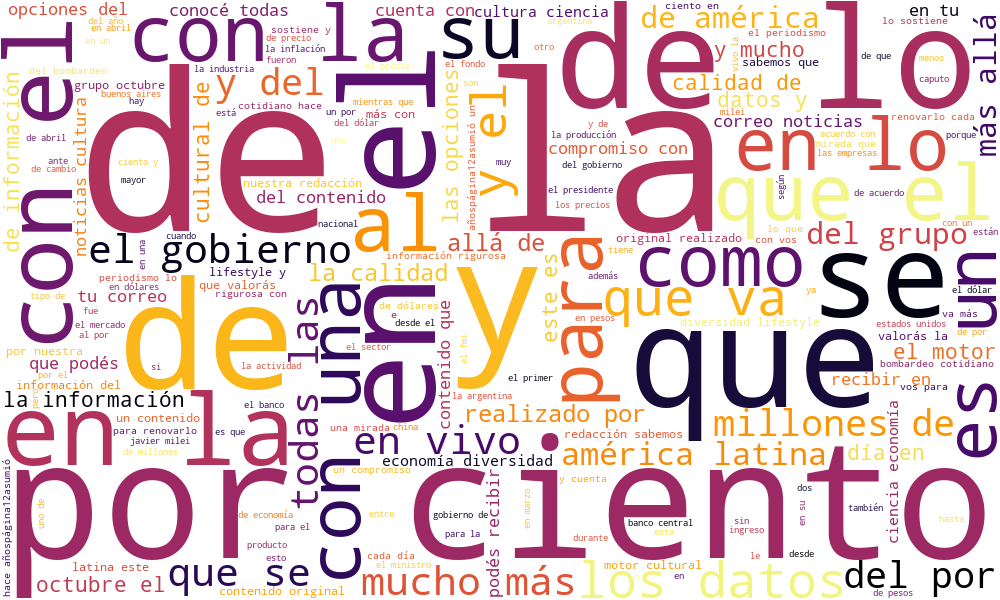
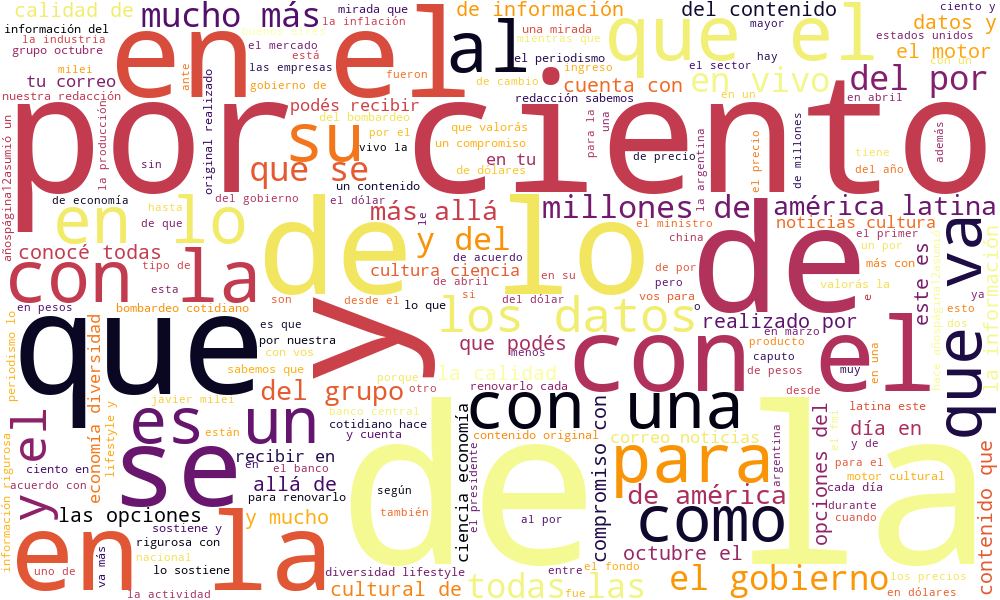
Add frequency graph to wordcloud analysis

diff --git a/src/wordcloud_analysis.py b/src/wordcloud_analysis.py
@@ -4,6 +4,7 @@ import matplotlib.pyplot as plt
 from wordcloud import WordCloud
 from preprocessing import preprocesar
 from utils import validar_seccion
+from collections import Counter
 import sys
 import json
 sys.path.insert(0, "..")
@@ -34,11 +35,31 @@ preprocesados = [preprocesar(a, stopwords=REMOVE_STOPWORDS, lematizar_texto=LEMM
 # Concatenar todo el corpus
 texto_completo = " ".join(preprocesados)
 
+# Contar frecuencia de palabras
+tokens = texto_completo.split()
+contador = Counter(tokens)
+palabras_mas_comunes = contador.most_common(20)
+
+# Separar palabras y frecuencias
+palabras, frecuencias = zip(*palabras_mas_comunes)
+
 # Wordcloud
 wordcloud = WordCloud(width=1000, height=600, background_color="white", colormap="inferno").generate(texto_completo)
 
 # Guardar wordcloud como archivo PNG
-output_path = f"outputs/ff_wordcloud_{SECCION}.png"
+output_path = f"outputs/tt_wordcloud_{SECCION}.png"
 wordcloud.to_file(output_path)
+
+# Gráfico de barras horizontal (frecuencias)
+plt.figure(figsize=(10, 6))
+plt.barh(palabras[::-1], frecuencias[::-1], color="purple")
+plt.xlabel("Frecuencia")
+plt.title(f"Top 20 palabras más frecuentes ({SECCION})")
+plt.tight_layout()
+
+# Guardar gráfico
+frequencies_path = f"outputs/tt_frecuencia_{SECCION}.png"
+plt.savefig(frequencies_path)
+print(f"Gráfico de frecuencias guardado en {frequencies_path}")
 
 print(f"Wordcloud guardada en {output_path}")
